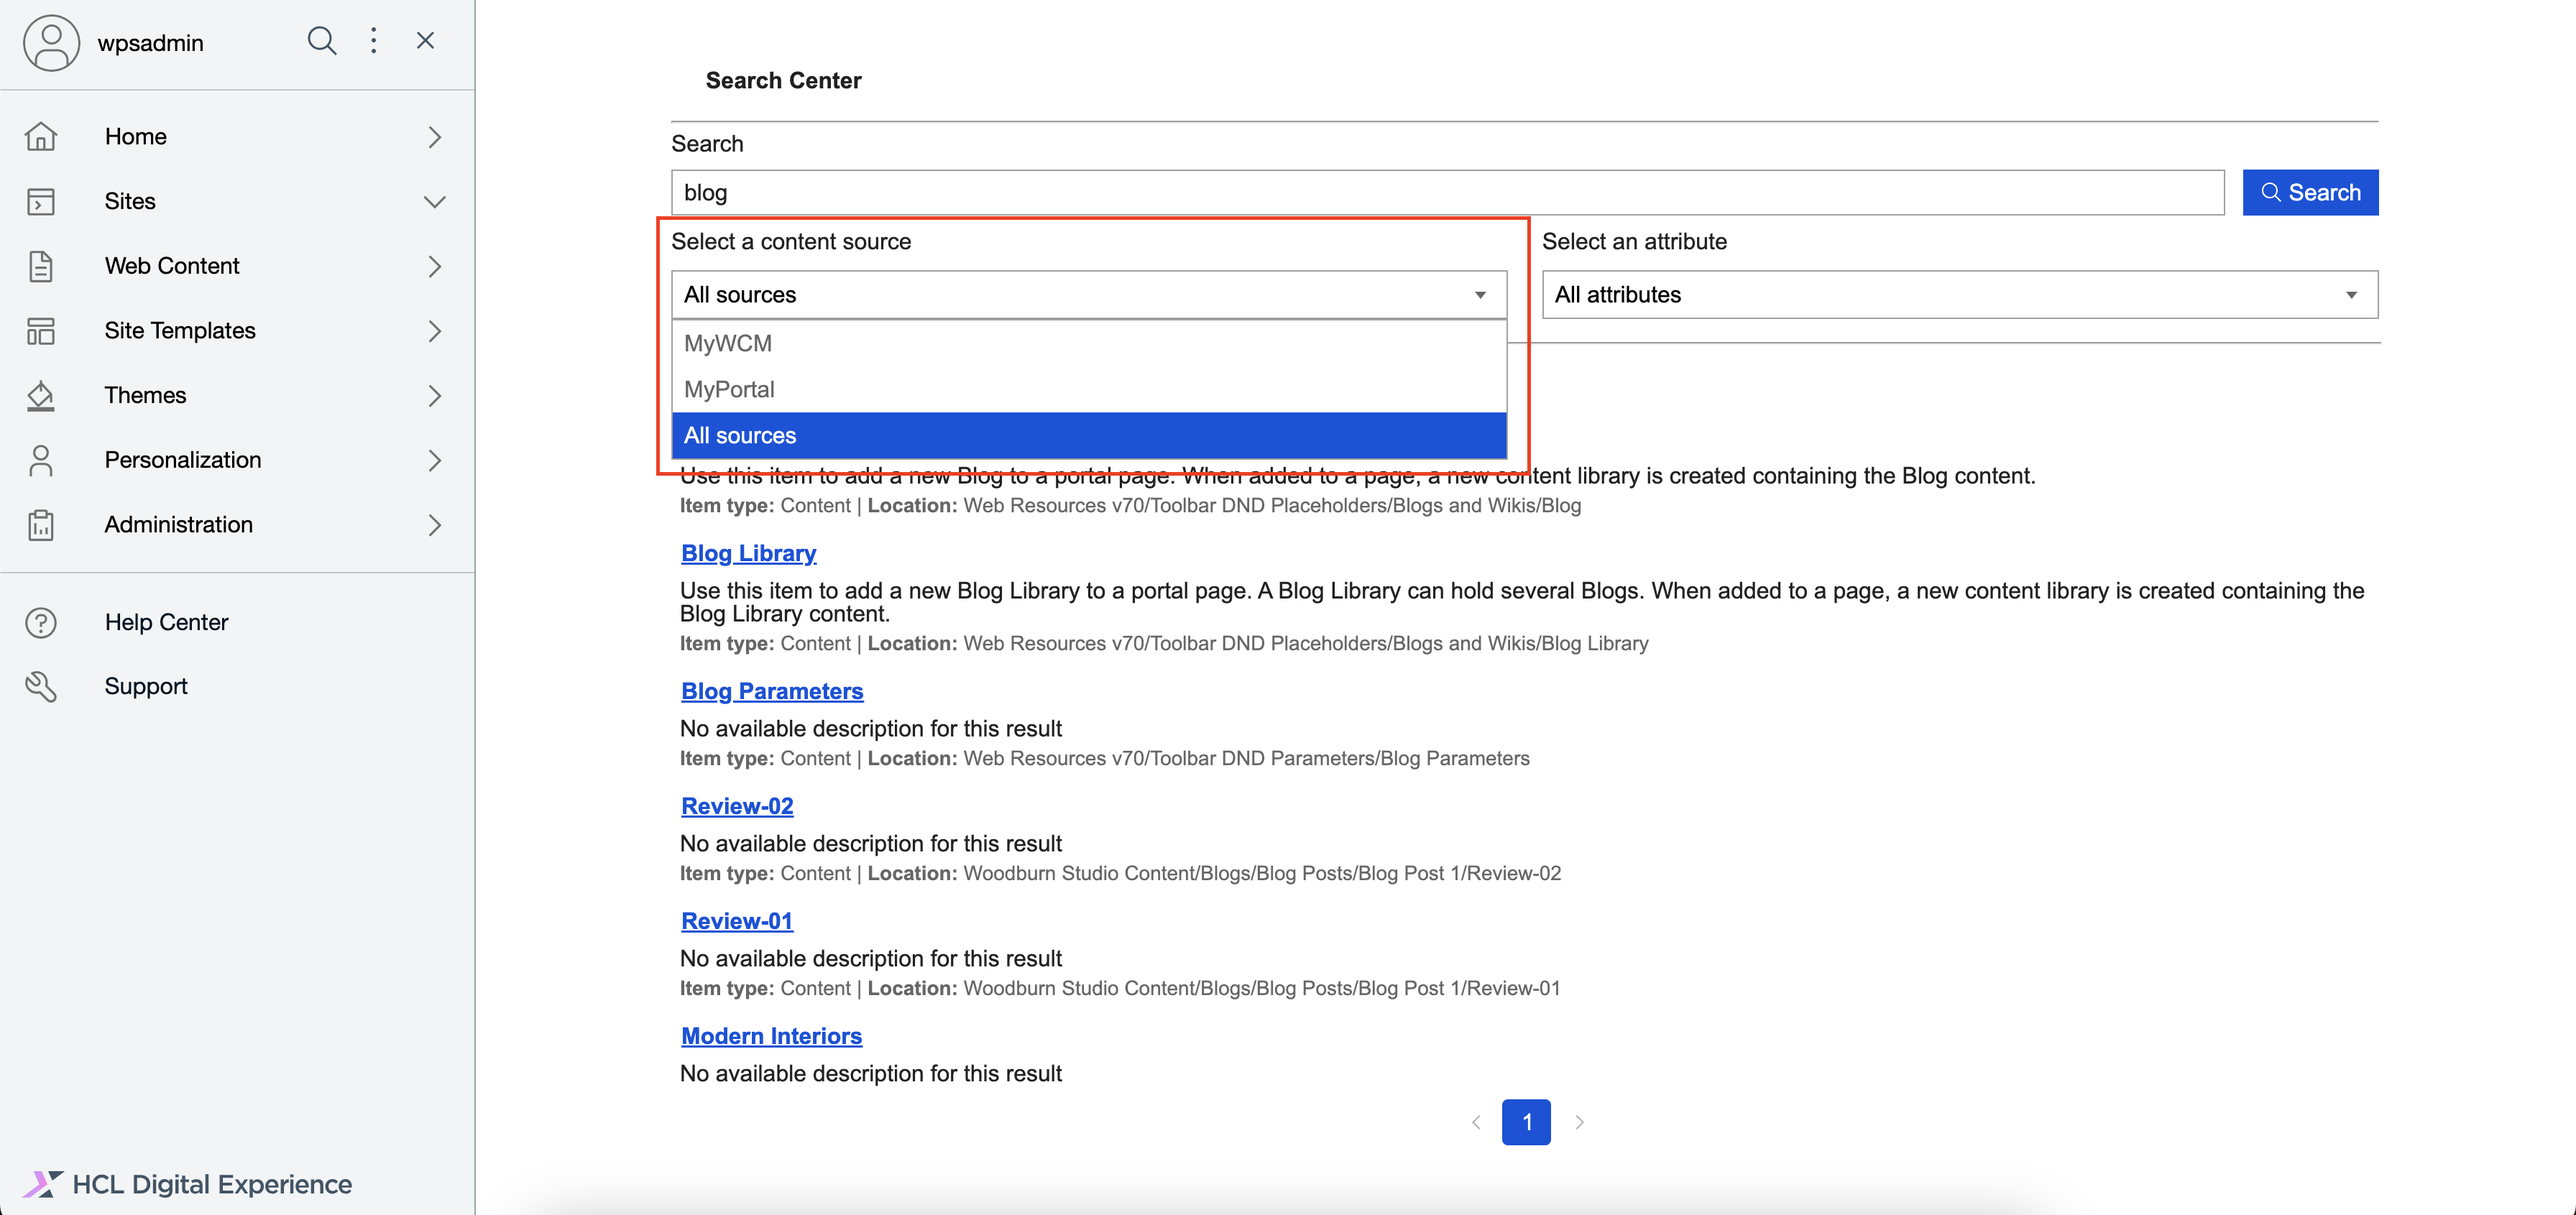
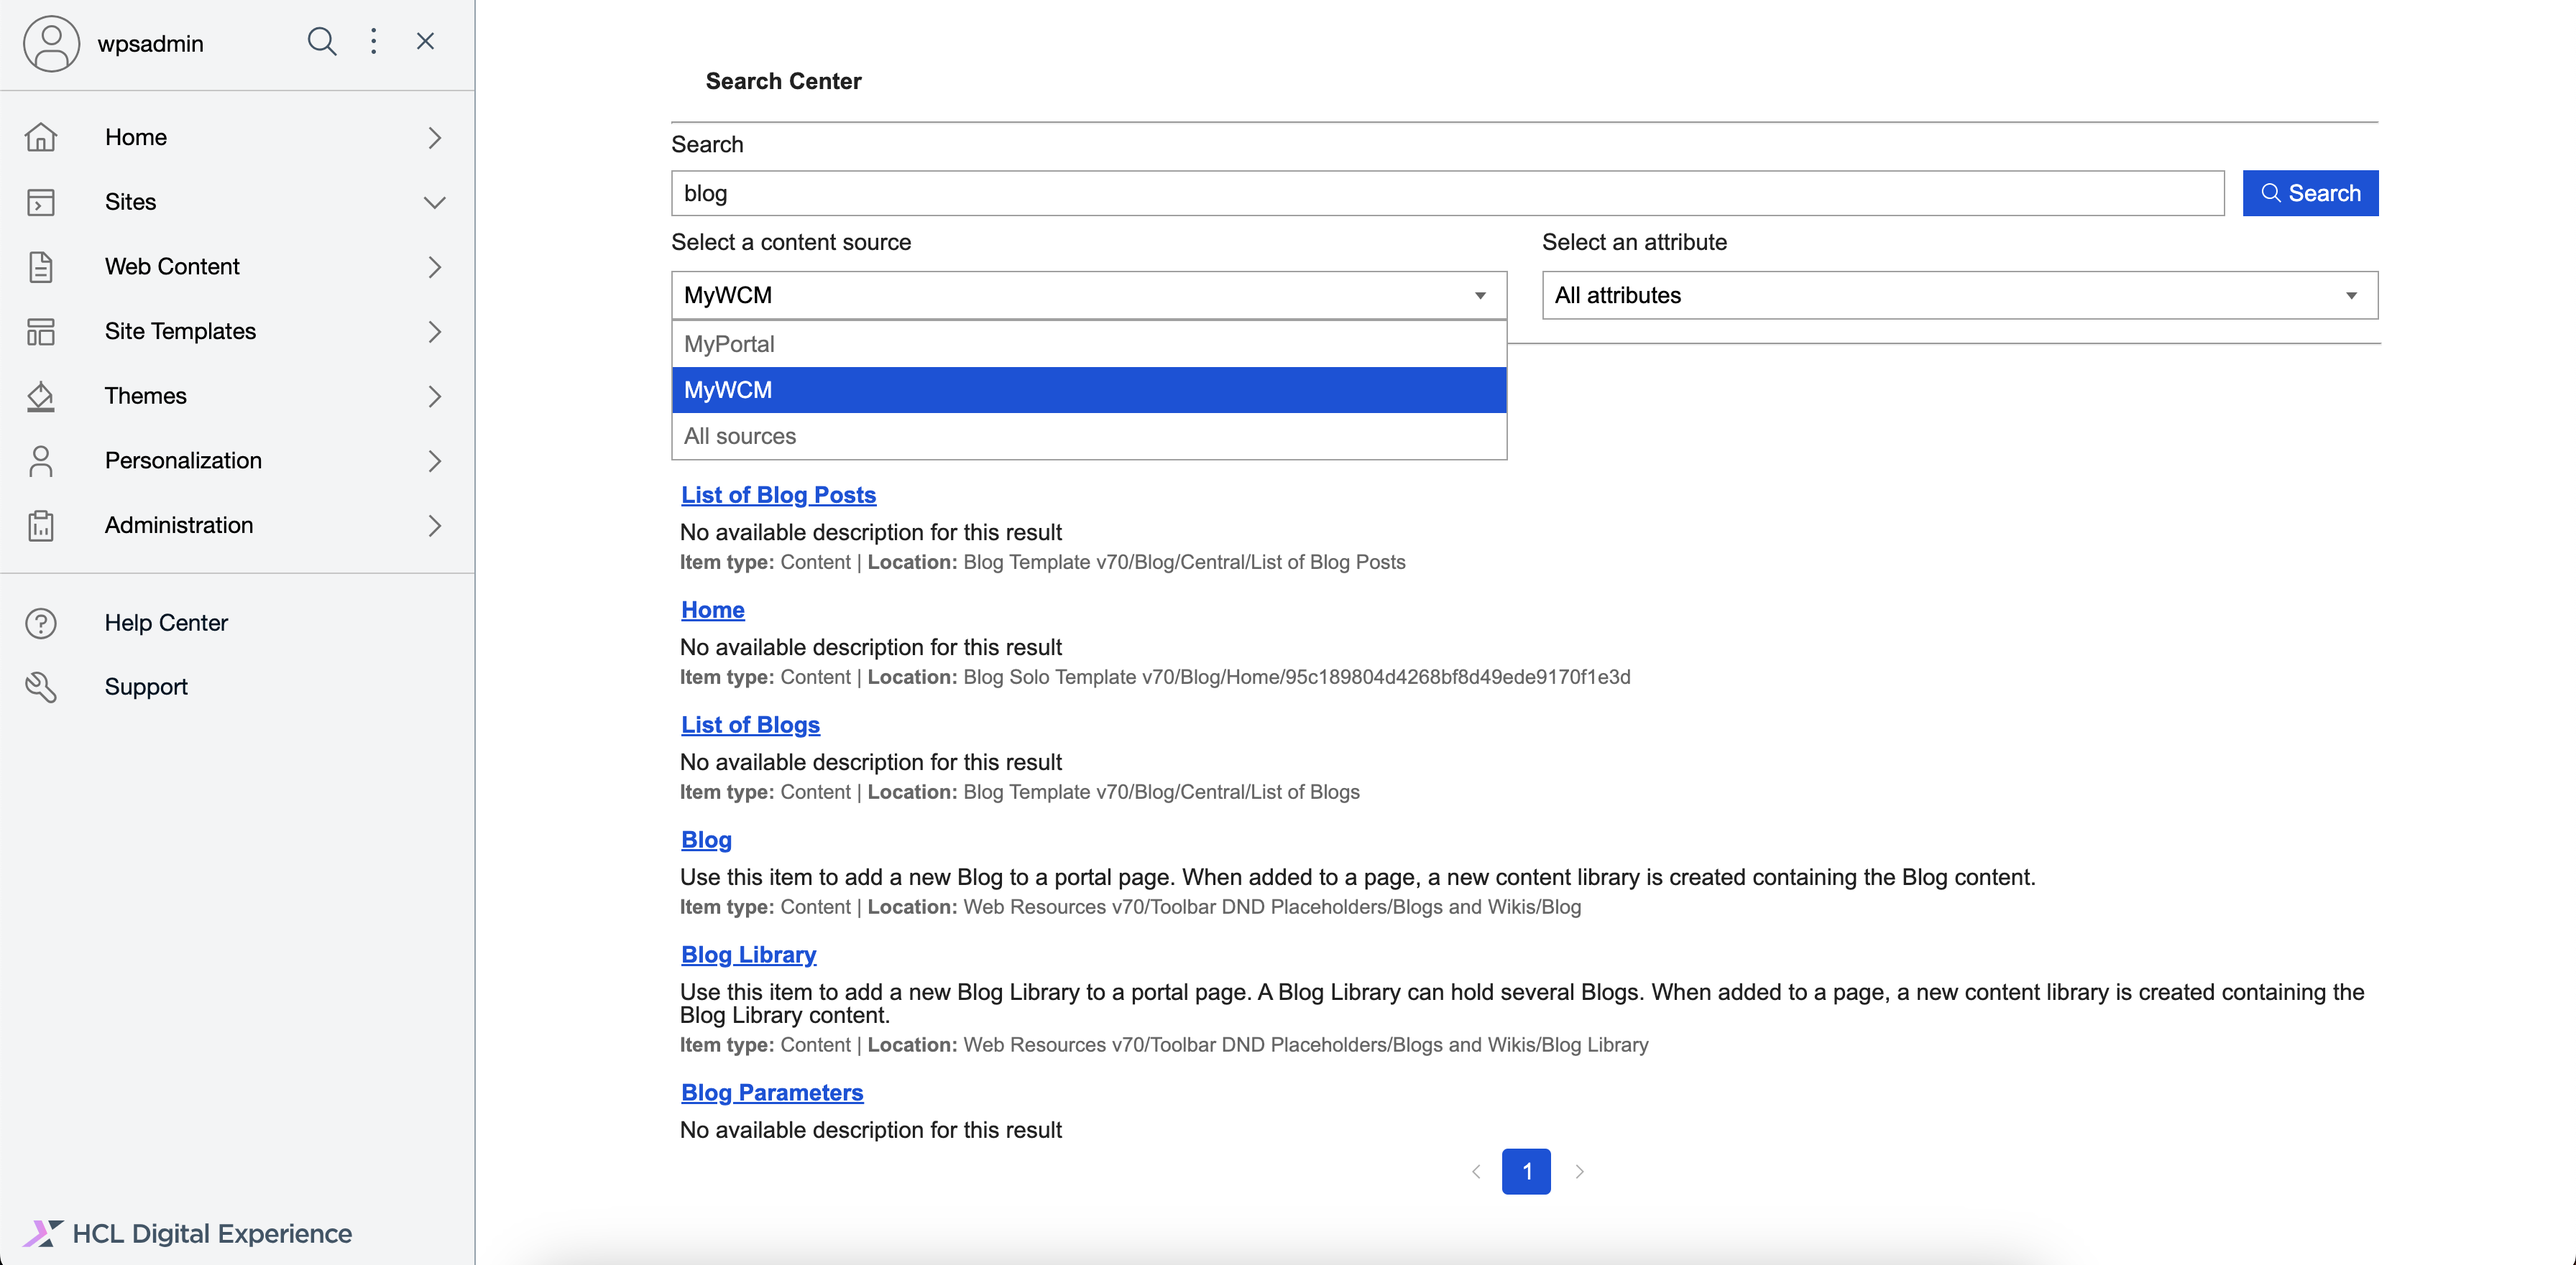
change requests with photos

diff --git a/docs/build_sites/search_using_opensearch/usage/index.md b/docs/build_sites/search_using_opensearch/usage/index.md
@@ -24,21 +24,27 @@ A set of search results set is generated to match the search terms that you ente
 
     ![](../../../assets/HCL_Search_03_Results_Set_Initial.png "View the search results and note the count of results found")
 
-4.  Specify the search results further by selecting a content source and attribute, then click **Search** again.
+4.  Refine the search results further by selecting a content source and attribute, then click **Search** again.
+
     1. Click the **Select a content source** dropdown and select a content source, such as "MyWCM".
+
+        ![](../../../assets/HCL_Search_04_Input_Scope.png "Click on Select a content source and choose one option")
+
     2. Click the **Select an attribute** dropdown and select an attribute, such as "title".
+
+        ![](../../../assets/HCL_Search_05_Input_Type.png "Click on Select an attribute and choose one option")
 
 5.  View the search results generated again. By selecting a content source and attribute, searching for the term "blog" generated eight, more specific search results.
 
     ![](../../../assets/HCL_Search_07_Results_Set_Filtered.png "View the filtered down search results and note the count of results found")
 
-9.  Go back to the **Search** input box and type a new search term you need to search e.g "interiors" and click the blue **Search** button again to start the search. View the new results list. Above the results, you can find a description of the total count of results found for the search term e.g. "3 results for **interiors**"
+6.  Click on a search result link.
 
-    ![](../../../assets/HCL_Search_08_Input_Query_Change.png "Change the search term in the Search input box")
+    ![](../../../assets/HCL_Search_08_Click_Result_Link.png "Click on one of the result items to open it in a new tab")
 
-6.  Click a search result link to open that item in a new tab.
+7.  View the opened item in a new tab.
 
-    ![](../../../assets/HCL_Search_09_Open_Result_Item.png "Click on one of the result items to open it in a new tab")
+    ![](../../../assets/HCL_Search_09_Open_Result_Item.png "View the opened item in a new tab")
 
 ## Other search result scenarios
 
